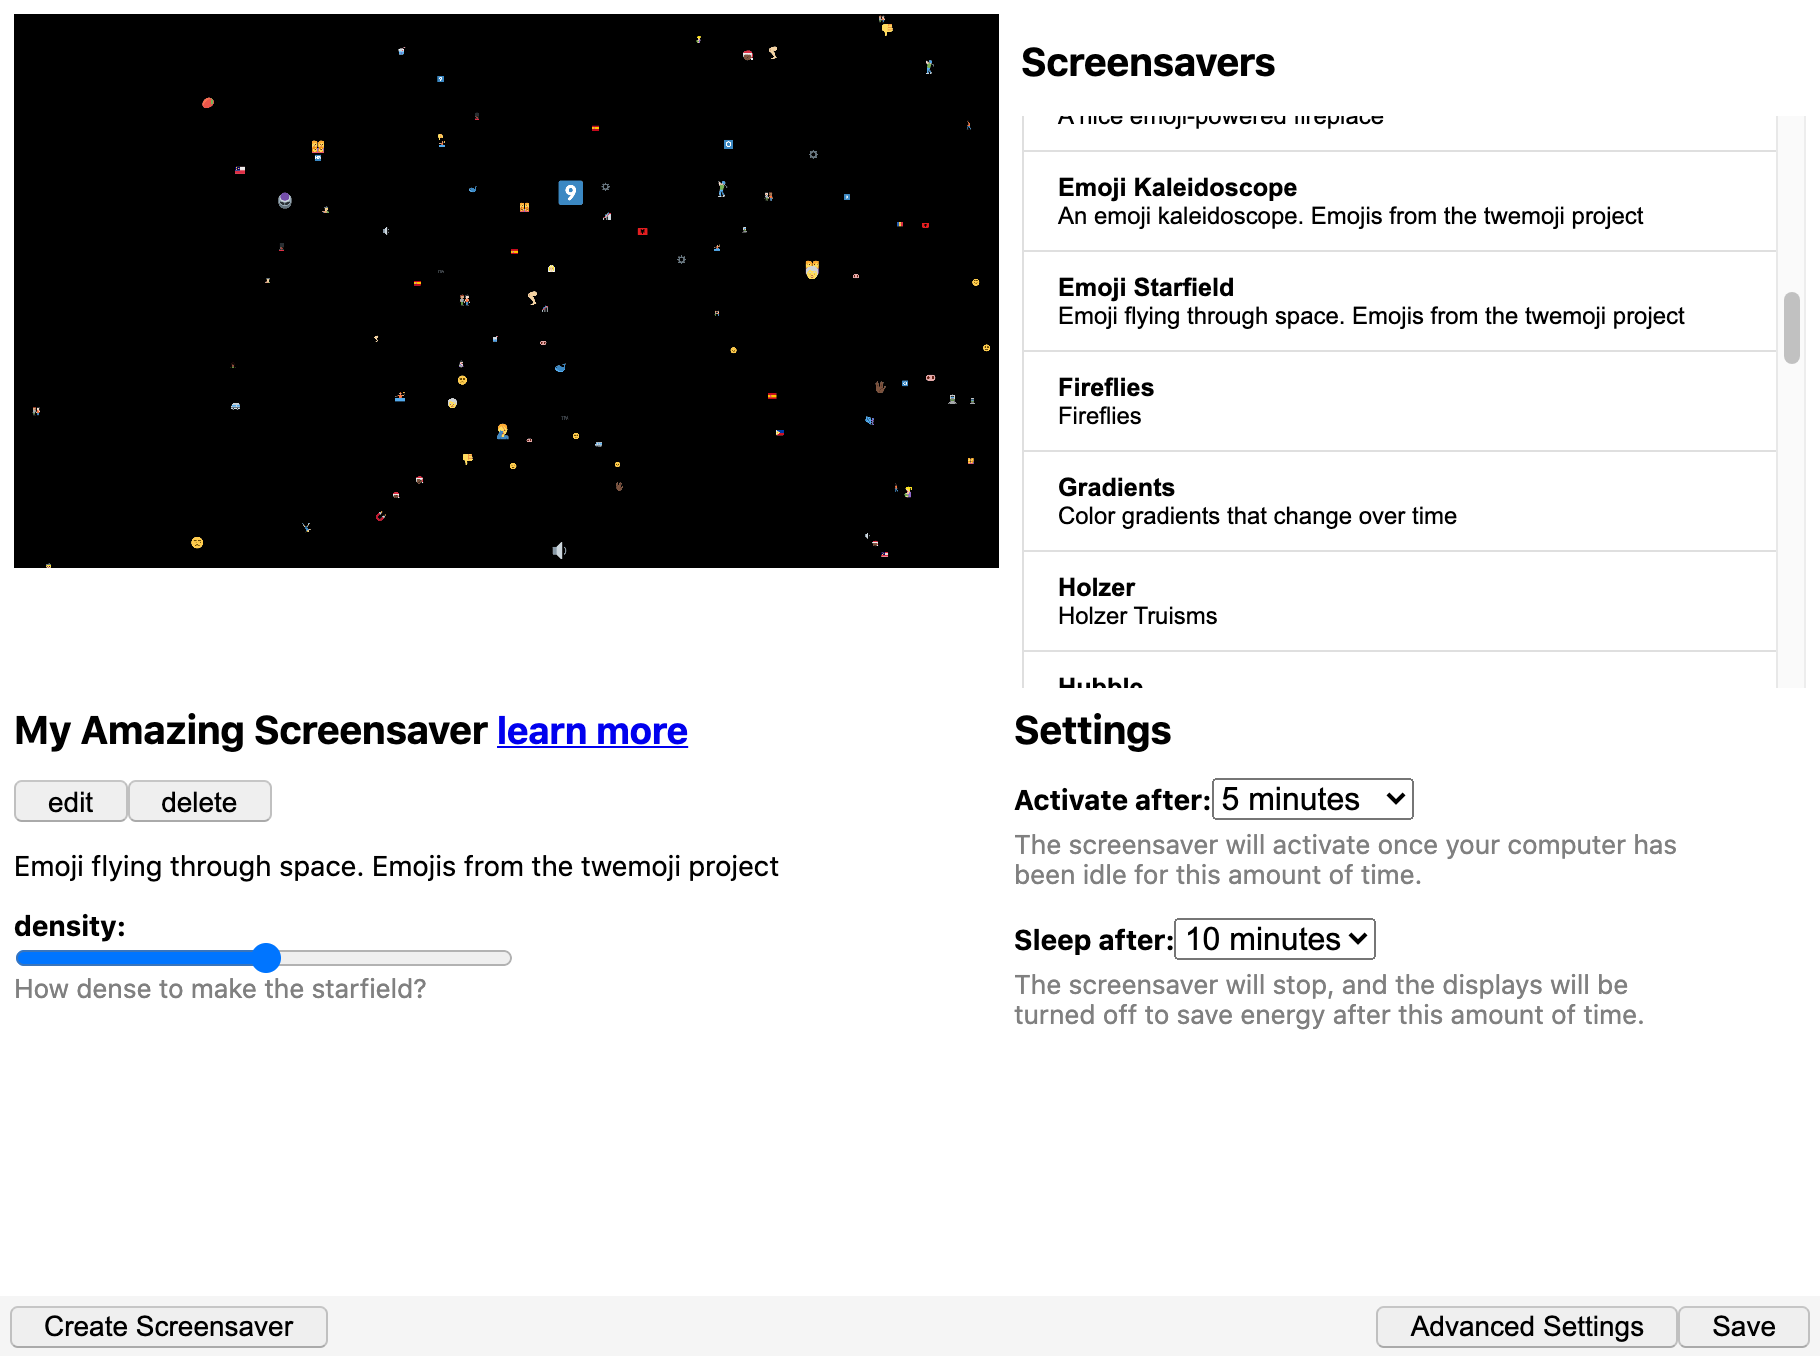
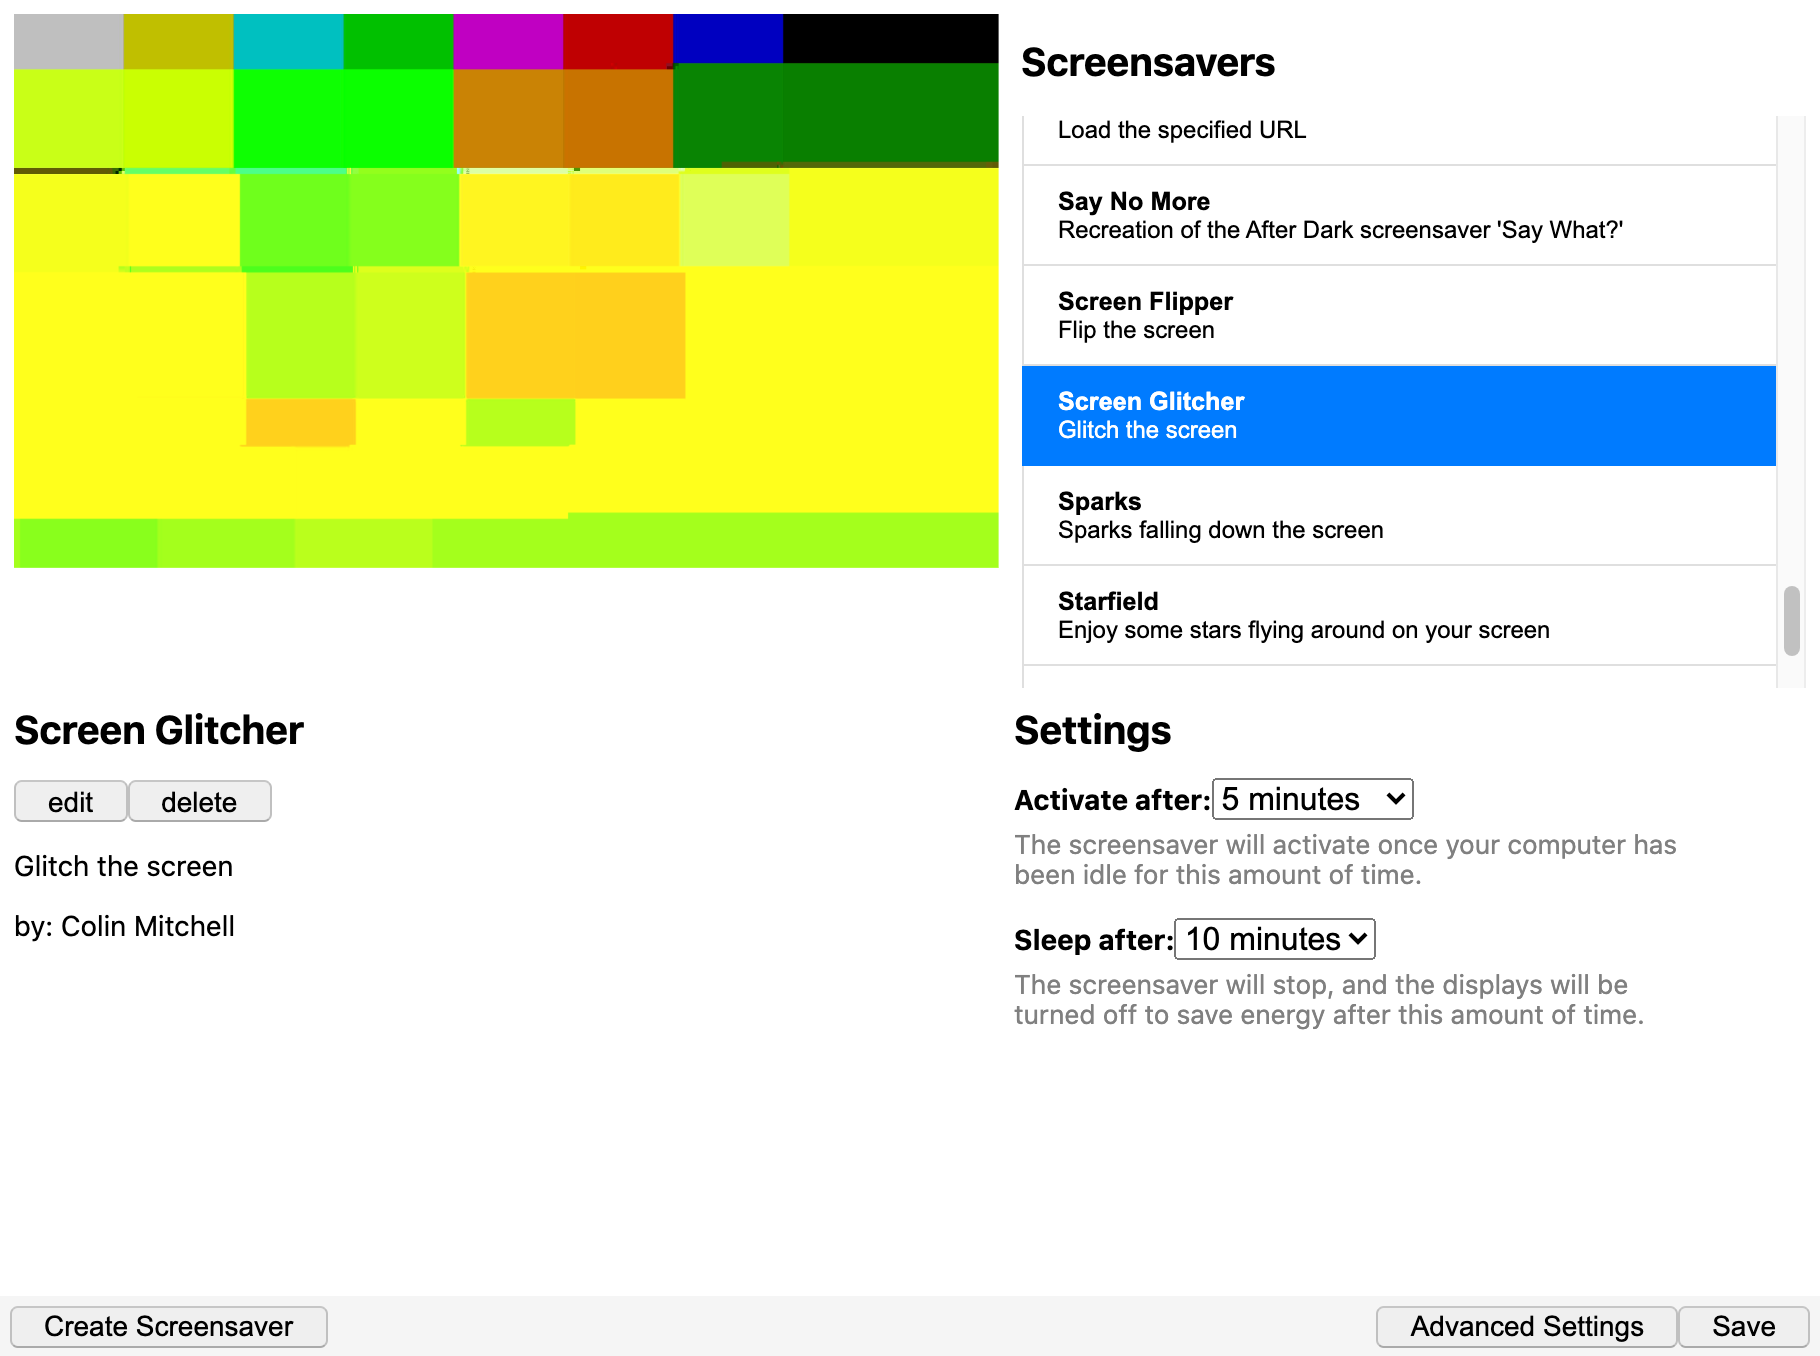
Update code for grabbing screenshots

diff --git a/bin/capture-screens.js b/bin/capture-screens.js
@@ -3,59 +3,72 @@
 "use strict";
 
 const path = require("path");
-const fs = require("fs-extra");
-const fsPromises = require("fs").promises;
 
-const Application = require("spectron").Application;
+const { _electron: electron } = require("playwright");
 const appPath = require("electron");
+
 const helpers = require("../test/helpers.js");
 
-//const workingDir = "";
+let shim;
 
-let env = {
-  // BEFORE_DAWN_DIR: workingDir,
-  CONFIG_DIR:  "/Users/colin/Library/Application Support/Before Dawn",
-  BEFORE_DAWN_DIR:  "/Users/colin/Library/Application Support/Before Dawn",
-  TEST_MODE: true
+const SCREENSAVER = "Screen Glitcher";
+
+const callIpc = async(method, opts={}) => {
+  await shim.fill("#ipc", method);
+  await shim.fill("#ipcopts", JSON.stringify(opts));
+  await shim.click("text=go");
 };
 
-let app = new Application({
-  path: appPath,
-  args: [path.join(__dirname, "..", "output", "main.js")],
-  env: env
-});
+async function main() {
+  let env = {
+    CONFIG_DIR:  "/Users/colin/Library/Application Support/Before Dawn",
+    BEFORE_DAWN_DIR:  "/Users/colin/Library/Application Support/Before Dawn",
+    TEST_MODE: true,
+    QUIET_MODE: true
+  };
+  
+  let app = await electron.launch({
+    path: appPath,
+    args: [path.join(__dirname, "..", "output/main.js")],
+    env: env
+  });
+  
+  // wait for the first window (our test shim) to open, and
+  // hang onto it for later use
+  shim = await app.firstWindow();
 
-const SCREENSAVER = "My Amazing Screensaver";
-app.start().
-  then(() => app.client.waitUntilWindowLoaded() ).
-  then(() => app.electron.ipcRenderer.send("open-window", "prefs")).
-  then(() => helpers.waitForWindow(app, "Before Dawn: Preferences") ).
-  then(() => app.webContents
-  .executeJavaScript(`document.querySelector("[data-name='${SCREENSAVER}']").scrollIntoView()`)).
-  then(() => app.webContents.executeJavaScript(`document.querySelector("[type='radio'][data-name='${SCREENSAVER}']").click()`)).
-  then(() => helpers.sleep(1000) ).
-  then(() => 
-    app.browserWindow.capturePage().then(function (imageBuffer) {
-      fs.writeFileSync(path.join(__dirname, "..", "assets", "prefs.png"), imageBuffer);
-    })
-  ).
-  then(() => app.webContents.executeJavaScript("document.querySelector('button.settings').click()")).
-  then(() => helpers.waitForWindow(app, "Before Dawn: Settings") ).
-  then(() => app.browserWindow.capturePage()).
-  then((imageBuffer) => fsPromises.writeFile(path.join(__dirname, "..", "assets", "settings.png"), imageBuffer)).
-  then(() => app.electron.ipcRenderer.send("close-window", "settings")).
-  then(() => helpers.waitForWindow(app, "Before Dawn: Preferences") ).
-  then(() => app.webContents.executeJavaScript("document.querySelector('button.create').click()")).
-  then(() => helpers.waitForWindow(app, "Before Dawn: Create Screensaver!") ).
-  then(() => helpers.sleep(200) ).
-  then(() => app.browserWindow.capturePage()).
-  then((imageBuffer) => fsPromises.writeFile(path.join(__dirname, "..", "assets", "create-screensaver.png"), imageBuffer)).
-  then(() => helpers.sleep(200) ).
-  then(() => app.webContents.executeJavaScript("document.querySelector('button.cancel').click()")).
-  then(() => helpers.waitForWindow(app, "Before Dawn: Preferences") ).
-  then(() => app.webContents.executeJavaScript("document.querySelector('button.edit').click()")).
-  then(() => helpers.waitForWindow(app, "Before Dawn: Editor") ).
-  then(() => helpers.sleep(1200) ).
-  then(() => app.browserWindow.capturePage()).
-  then((imageBuffer) => fsPromises.writeFile(path.join(__dirname, "..", "assets", "editor.png"), imageBuffer)).
-  then(() => app.stop() );
+  await callIpc("open-window prefs");
+  let window = await helpers.waitFor(app, "prefs");
+  await window.click(`text=${SCREENSAVER}`);
+  await helpers.sleep(1000);
+  await window.screenshot({ path: path.join(__dirname, "..", "assets", "prefs.png") });
+
+  await window.click("button.settings");
+  let settings = await helpers.waitFor(app, "settings");
+  await helpers.sleep(1000);
+  await settings.screenshot({ path: path.join(__dirname, "..", "assets", "settings.png") });
+
+  await callIpc("close-window settings");
+
+  await window.click("button.create");
+  let create = await helpers.waitFor(app, "new");
+  await helpers.sleep(1000);
+  await create.screenshot({ path: path.join(__dirname, "..", "assets", "create-screensaver.png") });
+  await create.click("button.cancel");
+
+  var saversDir = helpers.getTempDir();
+  const saverJSON = helpers.addSaver(saversDir, "saver-one", "saver.json");
+
+  await callIpc("open-window editor", {
+    screenshot: "file://" + path.join(__dirname, "../fixtures/screenshot.png"),
+    src: saverJSON
+  });
+
+  let editor = await helpers.waitFor(app, "editor");
+  await helpers.sleep(1000);
+  await editor.screenshot({ path: path.join(__dirname, "..", "assets", "editor.png"), fullPage: true });
+
+  app.close();
+}
+
+main().catch(e => console.error(e));

diff --git a/test/ui/editor.js b/test/ui/editor.js
@@ -17,7 +17,6 @@ describe("Editor", function() {
     workingDir = helpers.getTempDir();
     
     var saversDir = helpers.getTempDir();
-
     saverJSON = helpers.addSaver(saversDir, "saver-one", "saver.json");
 
     app = await helpers.application(workingDir, true);

diff --git a/README.md b/README.md
@@ -101,8 +101,6 @@ section where you can add custom options for your screensaver:
 
 ![editor window](assets/editor.png "Editor Window")
 
-![editor window](assets/editor-2.png "Editor Window")
-
 
 ## Contributing
 
